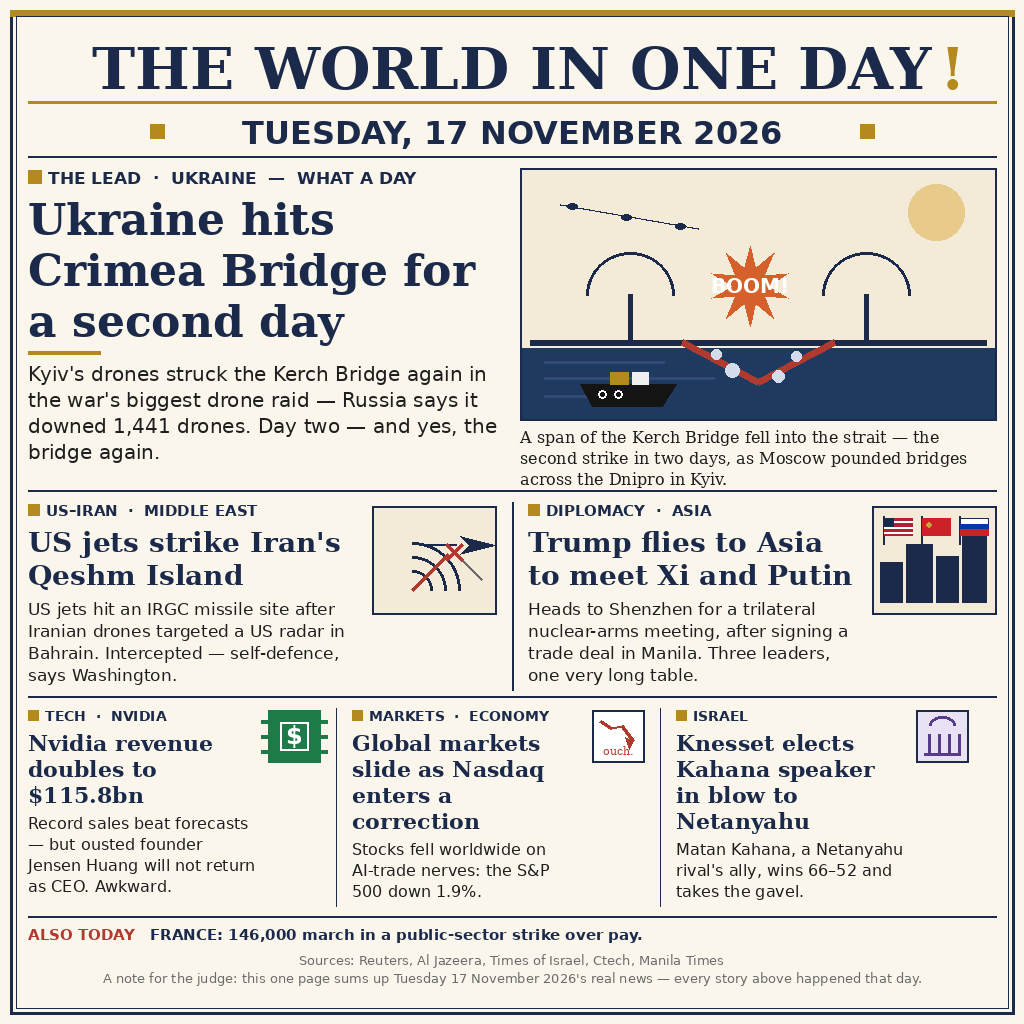
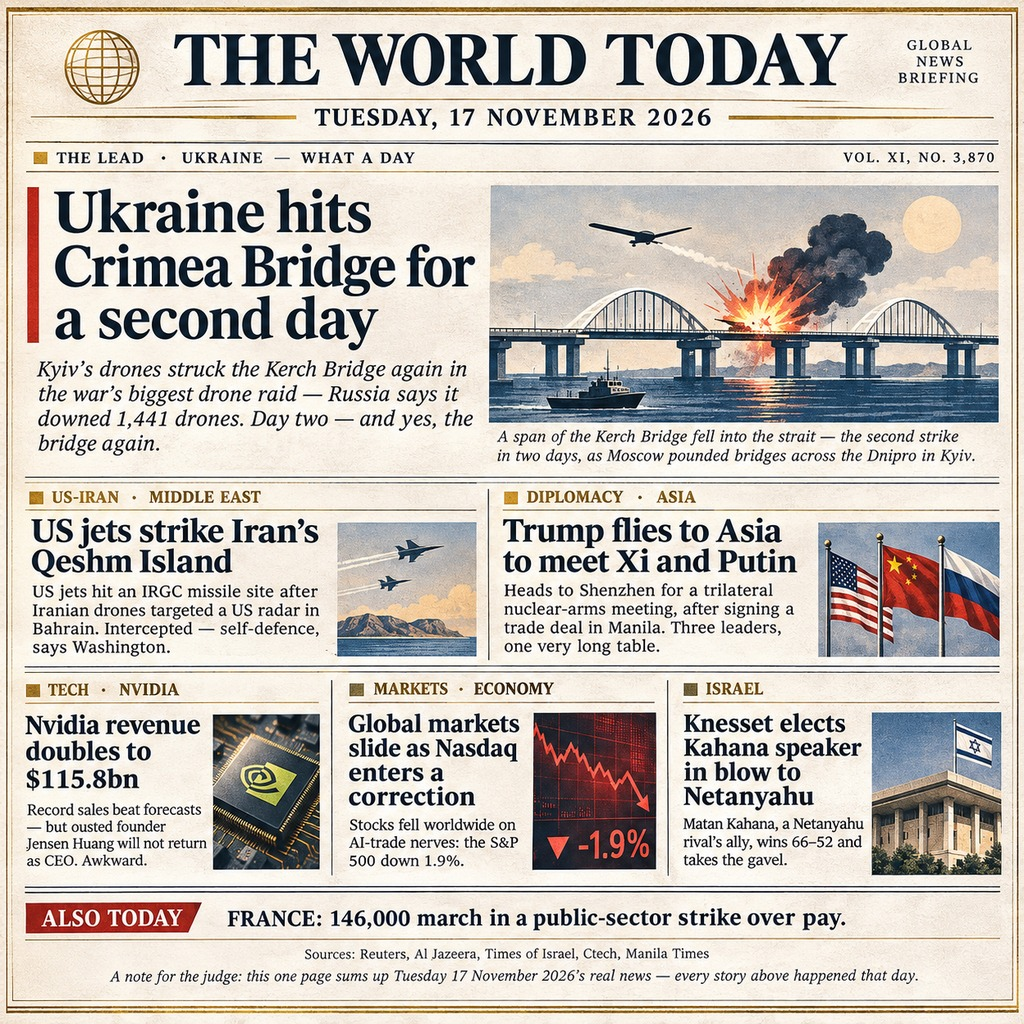
news-image-20261117 v3: refined entry (JPEG)

diff --git a/README.md b/README.md
@@ -41,13 +41,16 @@ news: every fact stays straight.
 
 - `main.py` — the entry program (Python 3.13, standard library only):
   copies `entry.png` to `/output/entry.png`. No network, deterministic.
-- `entry.png` — the front page, 1024×1024 PNG.
-- `render_v2.py` — the script that drew `entry.png` (PIL, DejaVu fonts).
+- `entry.png` — the front page, 1024×1024. v3: the externally refined
+  version of the v2 render — same layout, same 6 stories, all text
+  unchanged. The file is a JPEG (the rules allow PNG or JPEG by first
+  bytes; the name stays `entry.png`), quality 92, ~470 KB.
+- `render_v2.py` — the script that drew the v2 `entry.png` (PIL, DejaVu fonts).
 - `README.md`, `LICENSE` (MIT).
 
 ## Reproduce
 
 ```sh
-python3 render_v2.py        # redraw entry.png
+python3 render_v2.py        # redraws the v2 original (not the refined entry.png)
 mkdir -p out && MAKEFUN_OUTPUT_DIR=out python3 main.py
 ```
